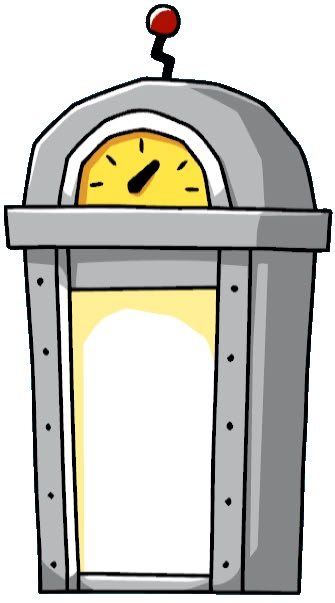
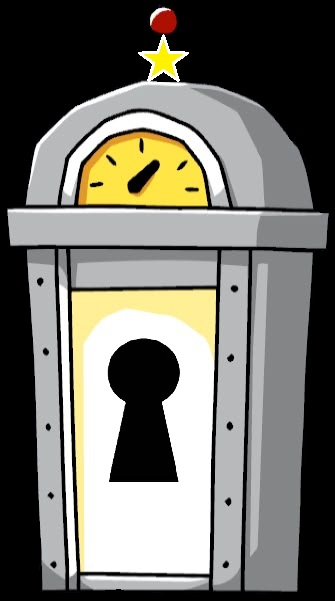
Changed time machine

diff --git a/Present_RPD.html b/Present_RPD.html
@@ -9,24 +9,16 @@
         *{background-color: black;}
         h1{color:white; text-align: center;}
         .laptop{ display: block; margin-left: auto; margin-right: auto; width: auto;}
-        
+        .timeMachine{display: block; margin-left: auto;margin-right: auto; width: 20%;}
     </style>
         <h1>Present</h1>
     </head>
     <!--BODY-->
     <body>
-        
-        
-        
-        
-        
-        
-        
-        
         <br>
         <a href="Laptop.html">
             <img class="laptop" src="images/Laptop.png"  alt="Laptop Png" > 
         </a>
-        
+        <img class="timeMachine"src="images/timeMachine.jpg">
     </body>
 </html> 
